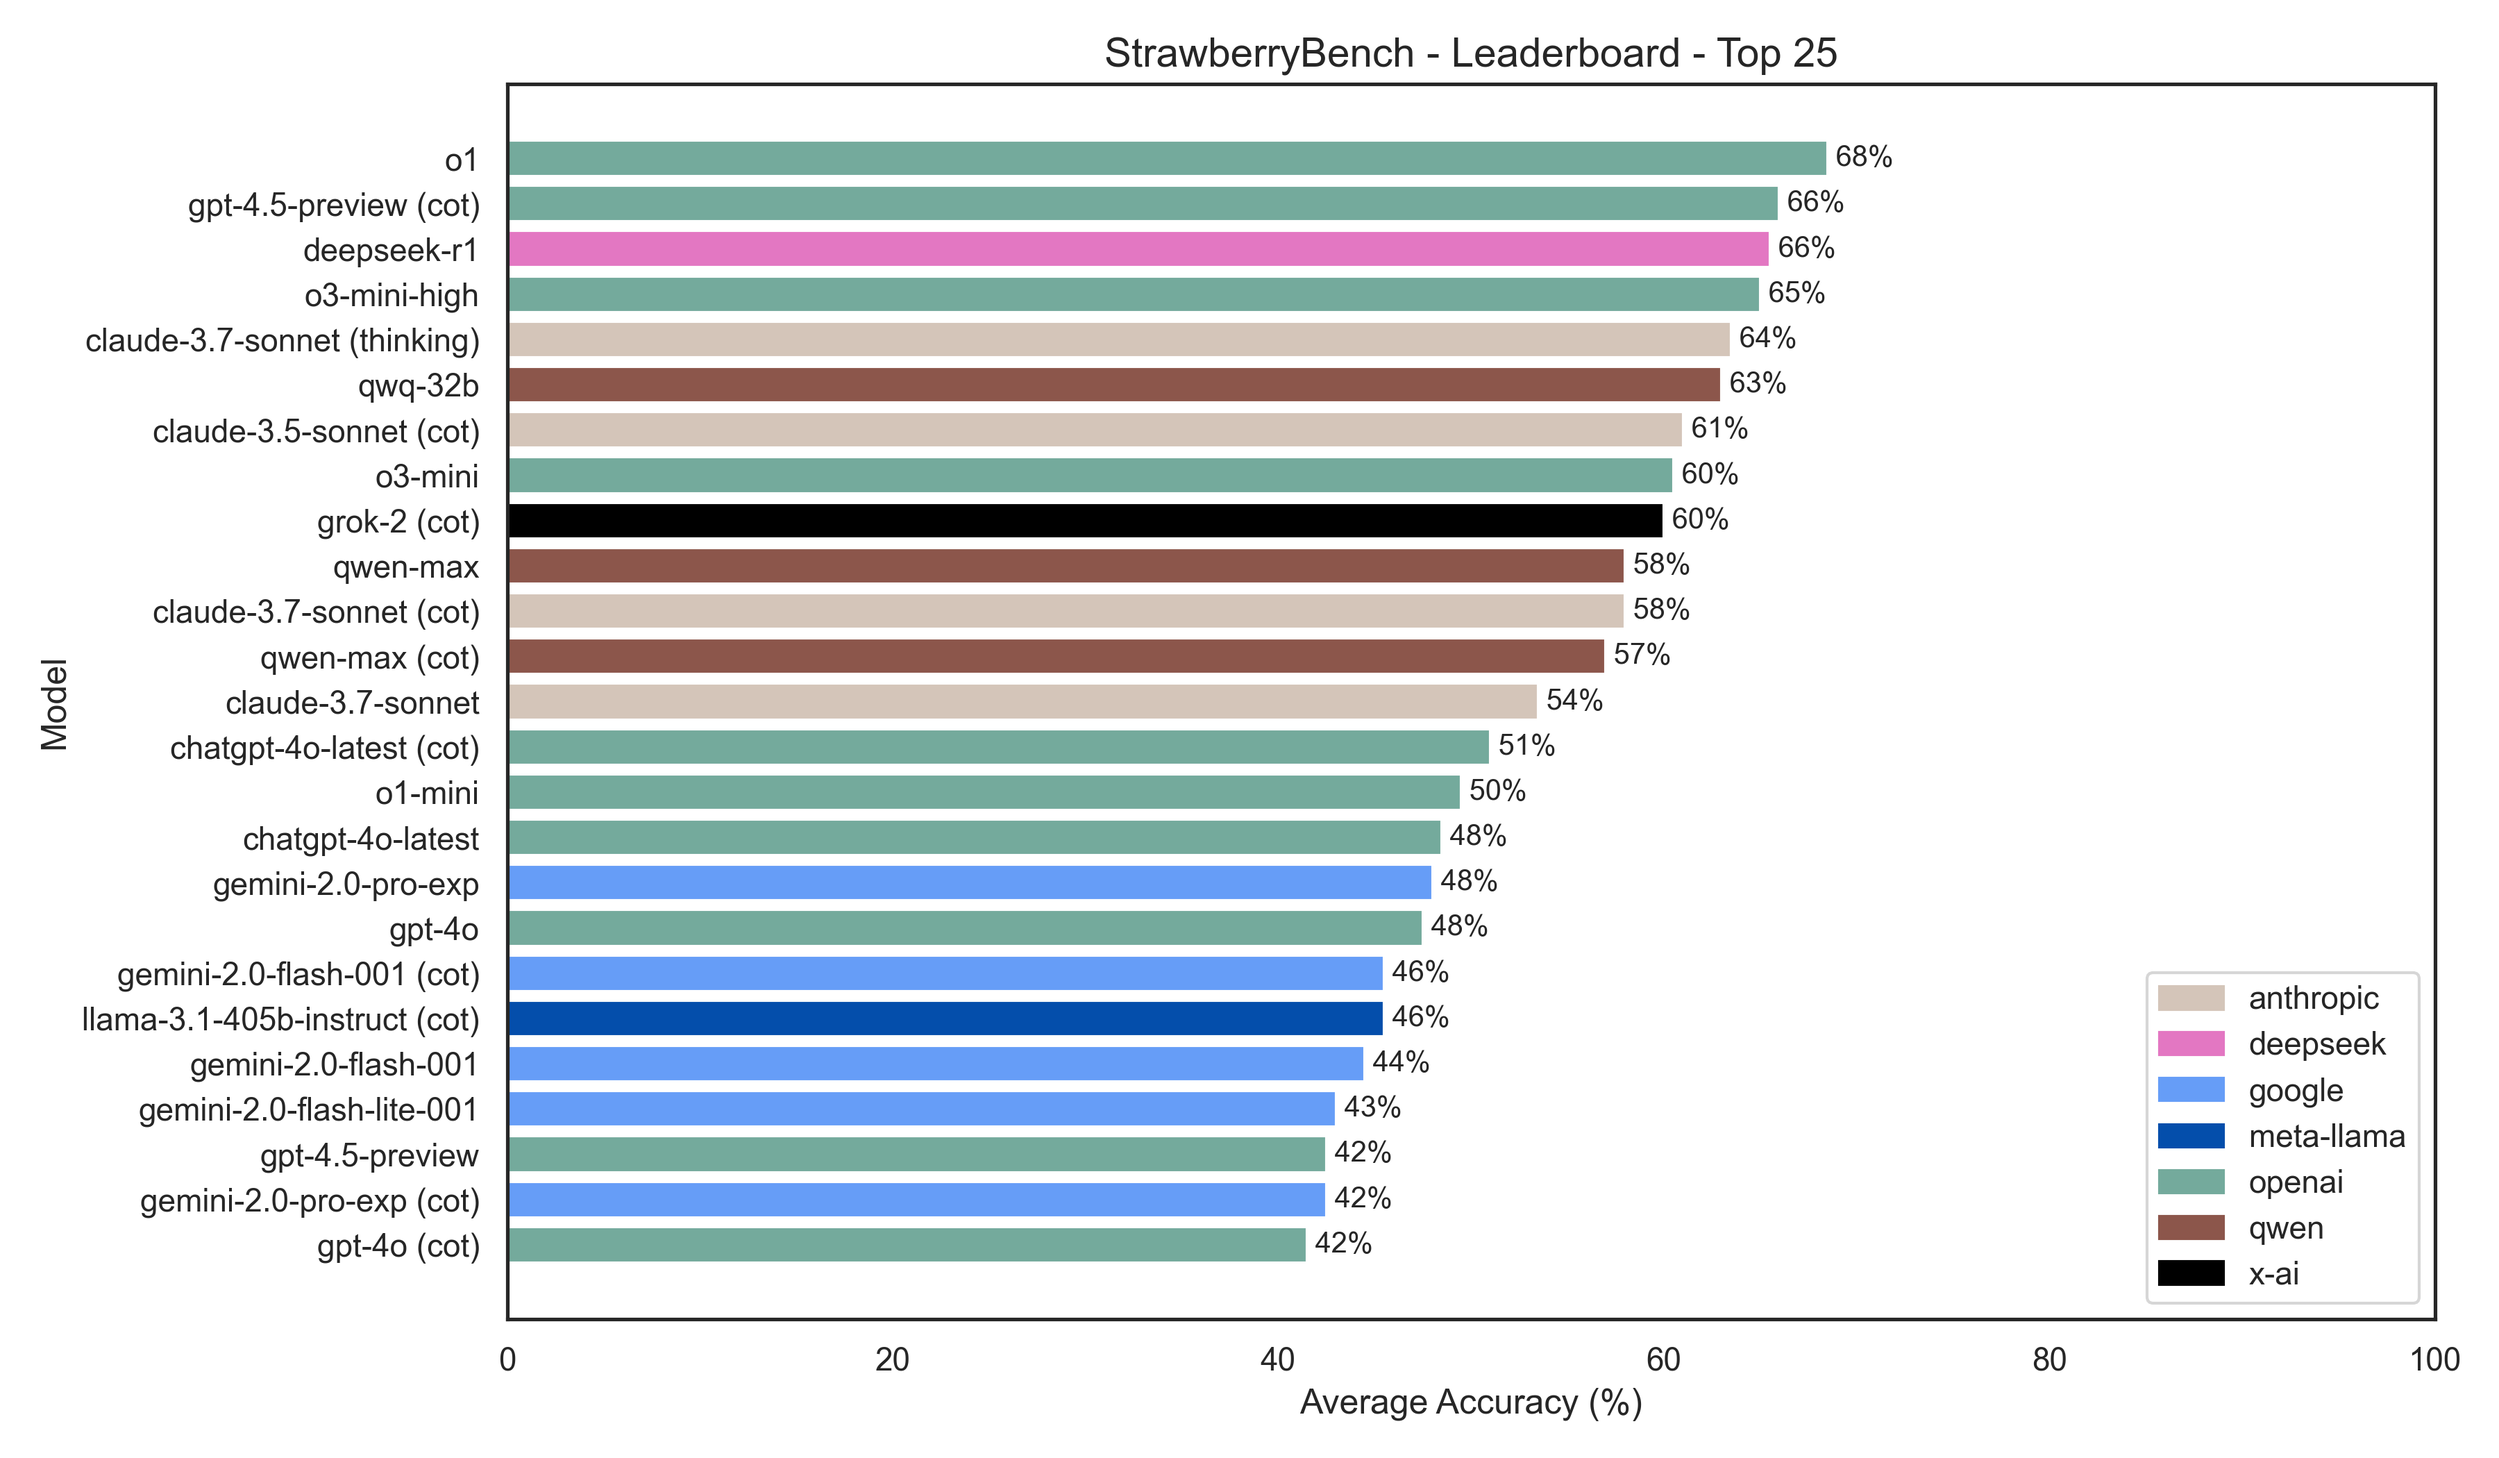
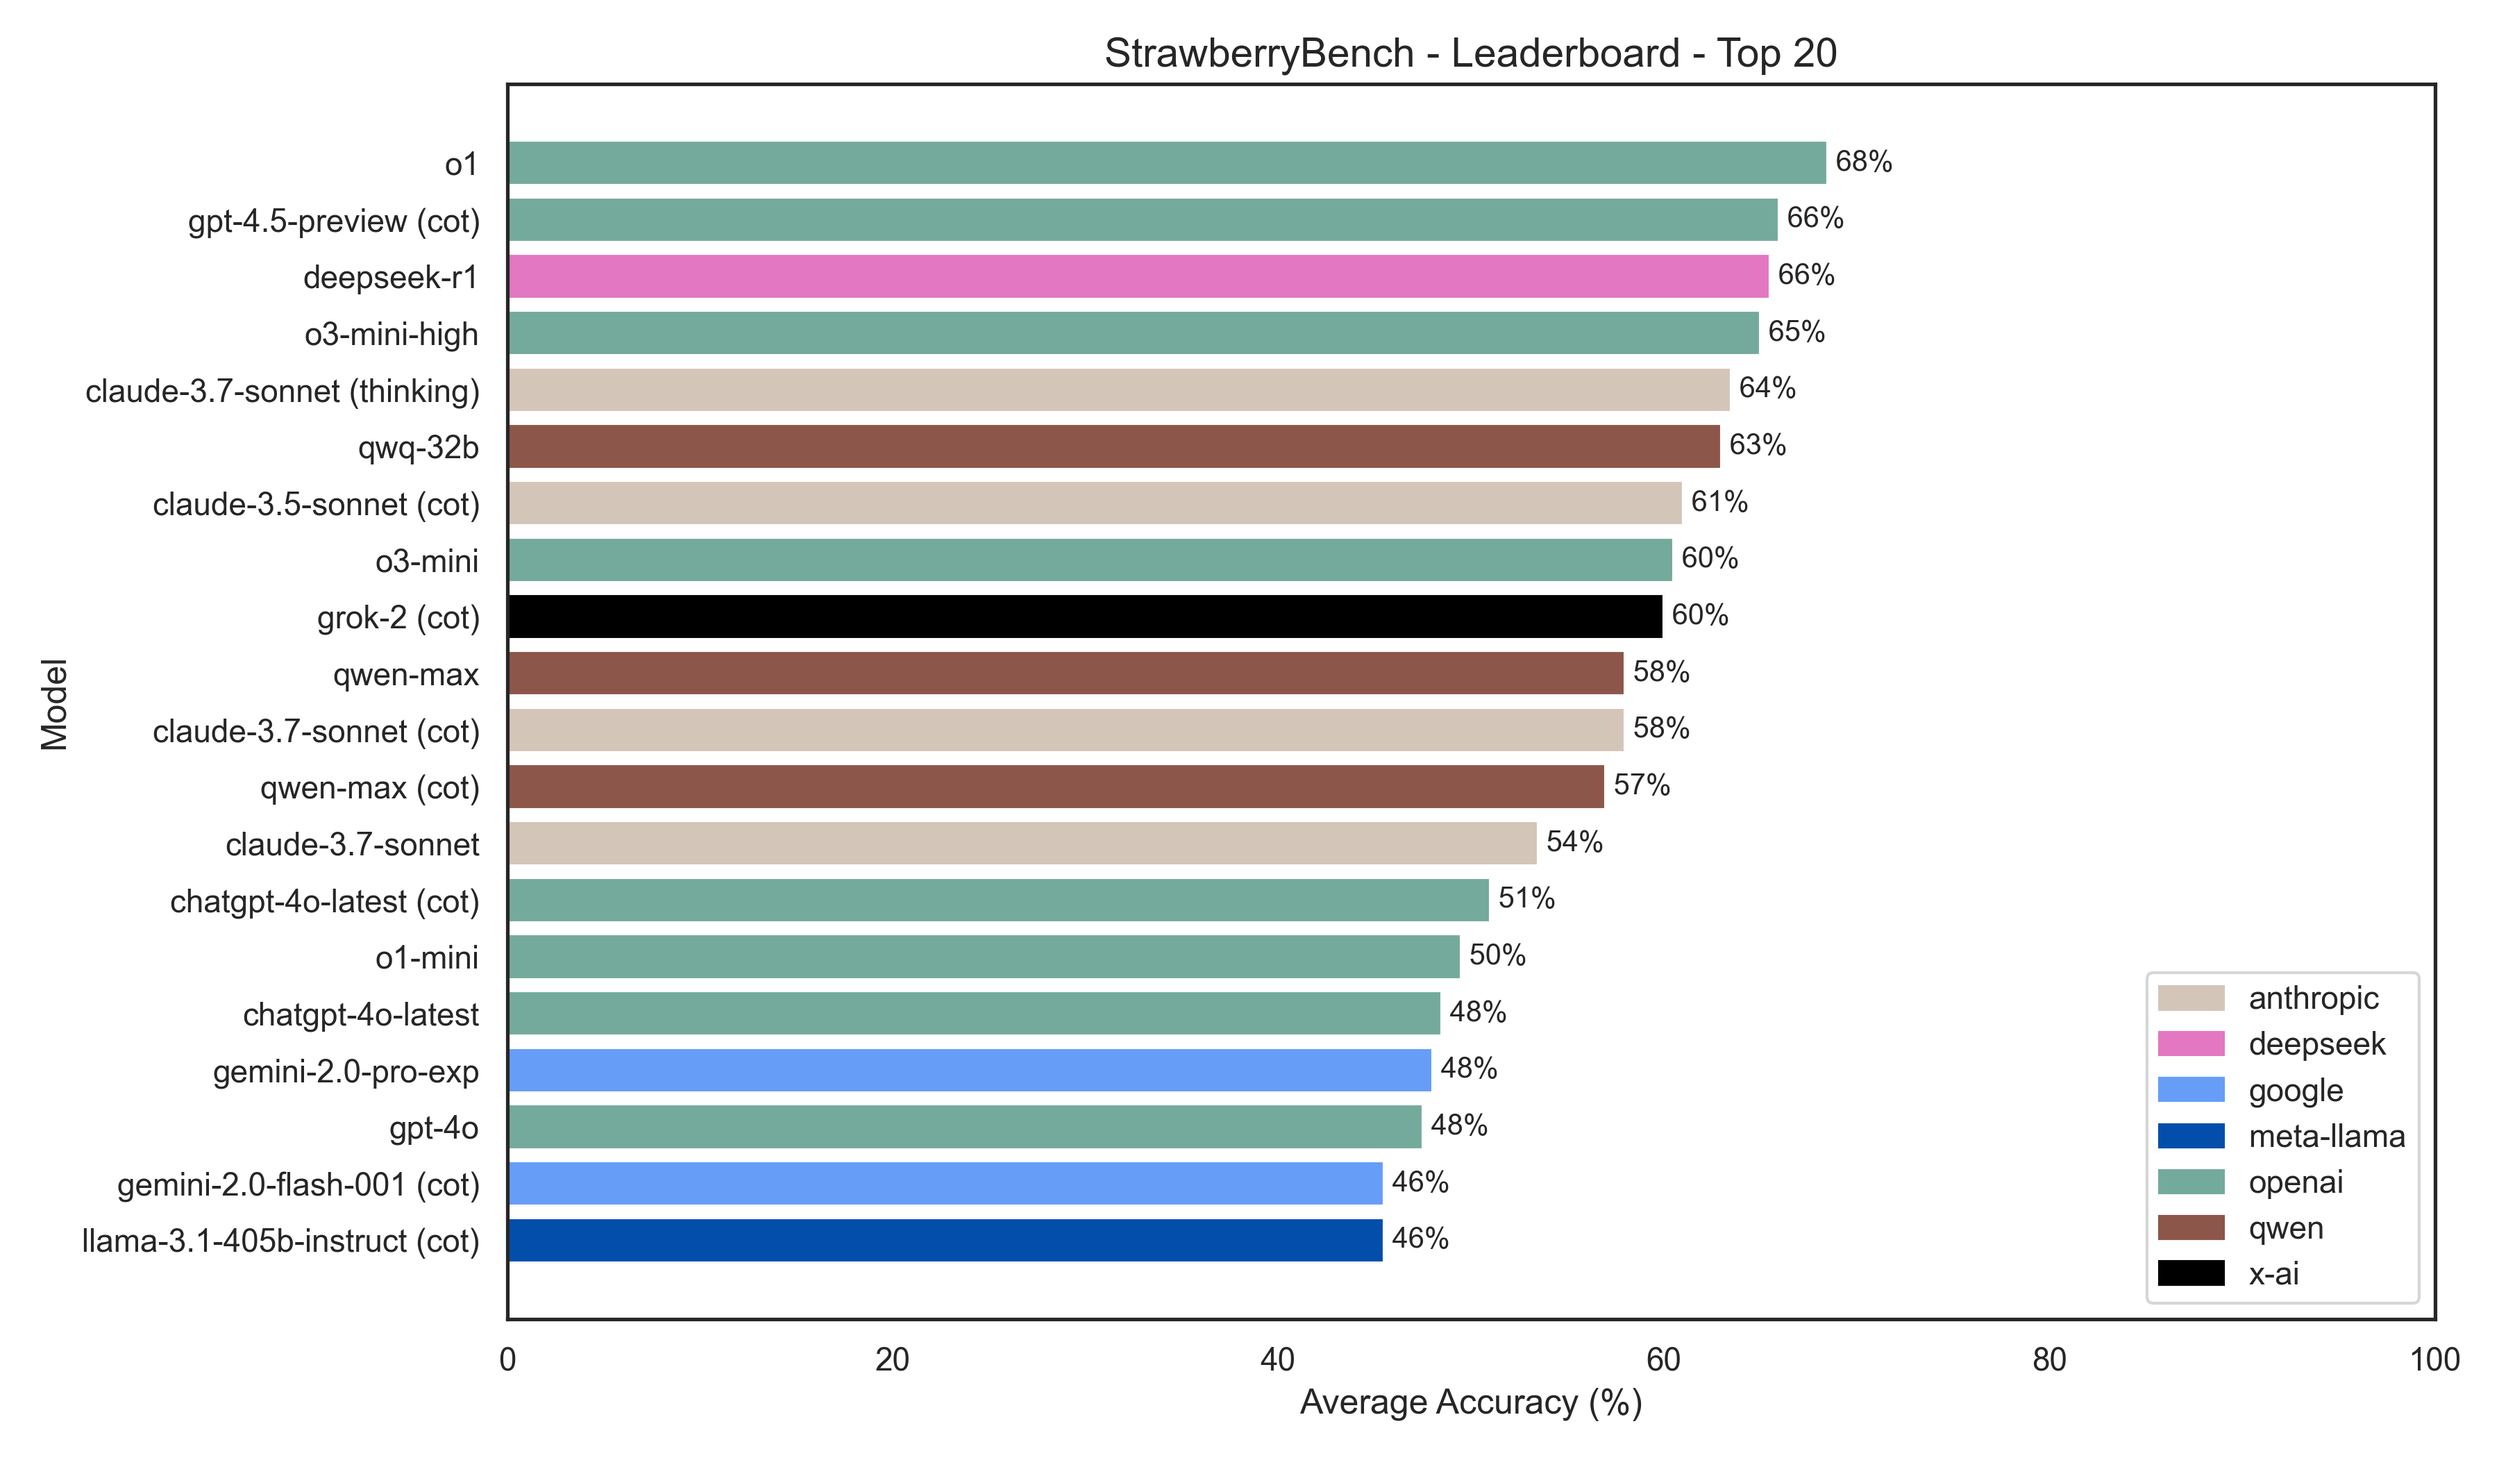
Use top 20 instead of top 25

Changed region(s): [[0.0311, 0.0929, 0.7467, 0.8667]]

diff --git a/plot.py b/plot.py
@@ -175,9 +175,9 @@ def plot_all(json_filename, save_plots=False):
         leaderboard = "assets/leaderboard.png" if save_plots else None
         plot_bar_chart(
             df,
-            "StrawberryBench - Leaderboard - Top 25",
+            "StrawberryBench - Leaderboard - Top 20",
             save_path=leaderboard,
-            limit=25,
+            limit=20,
             add_cot_label=True,
         )
     else:
